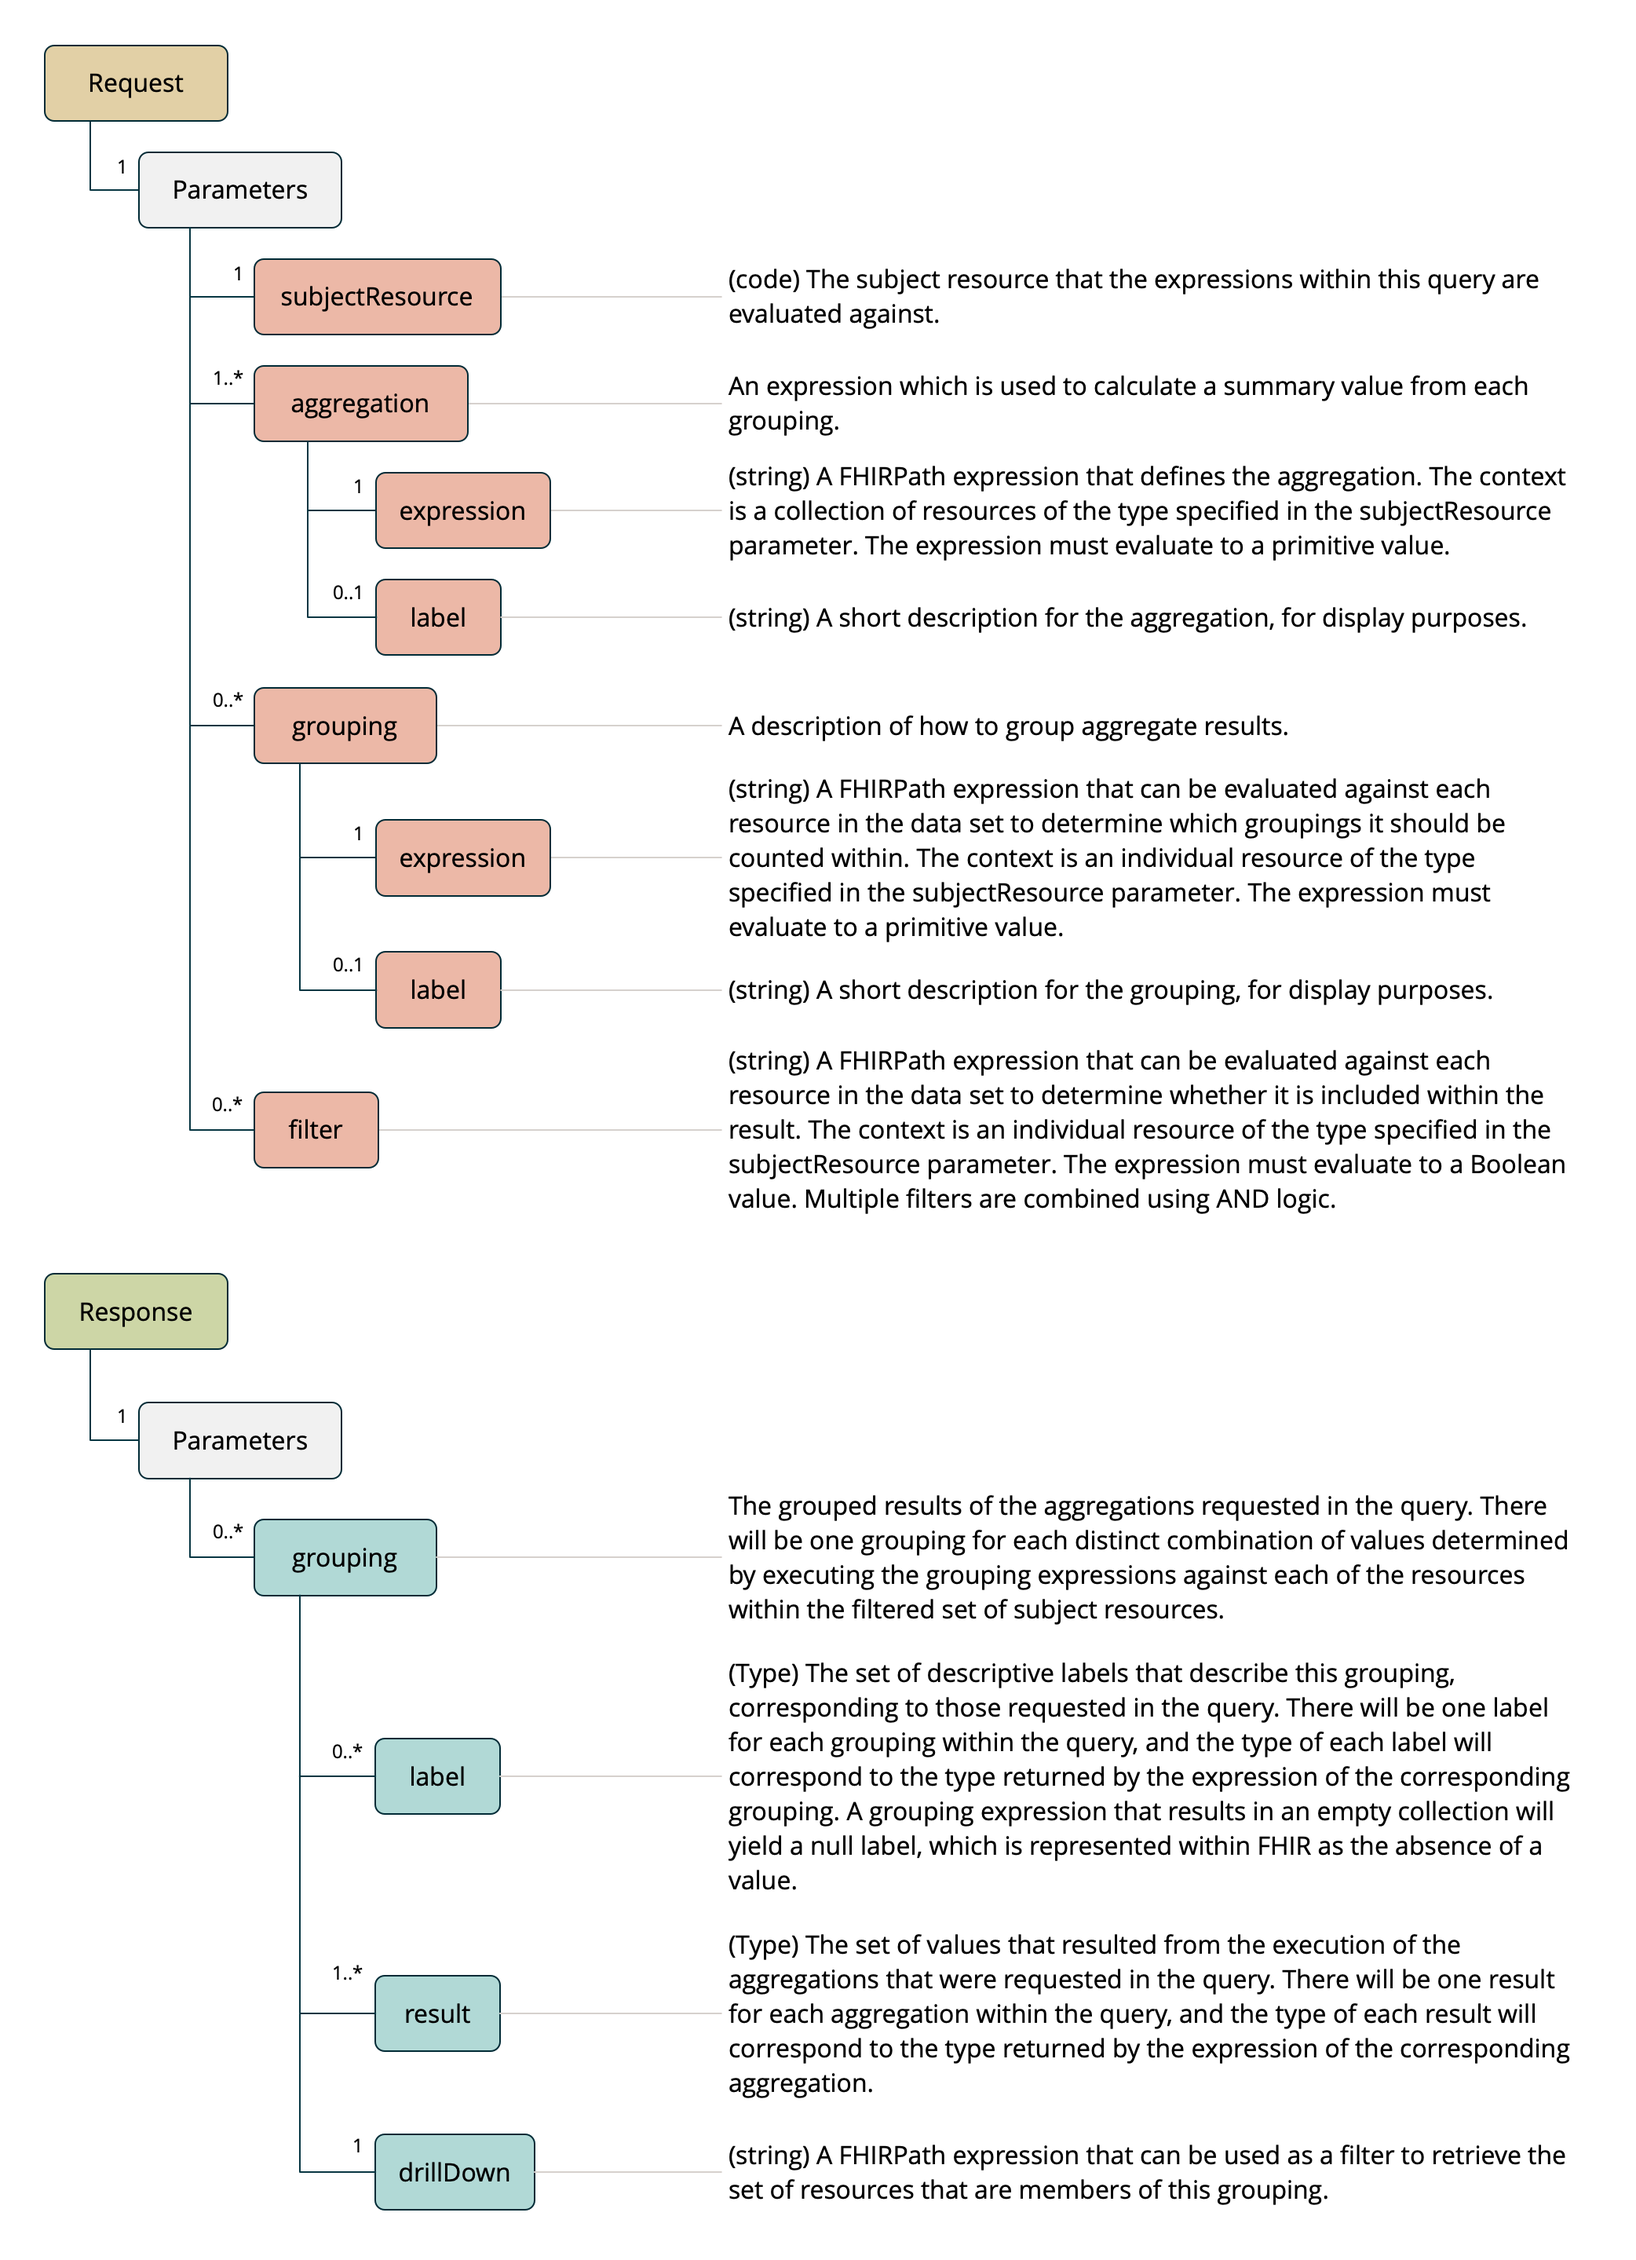
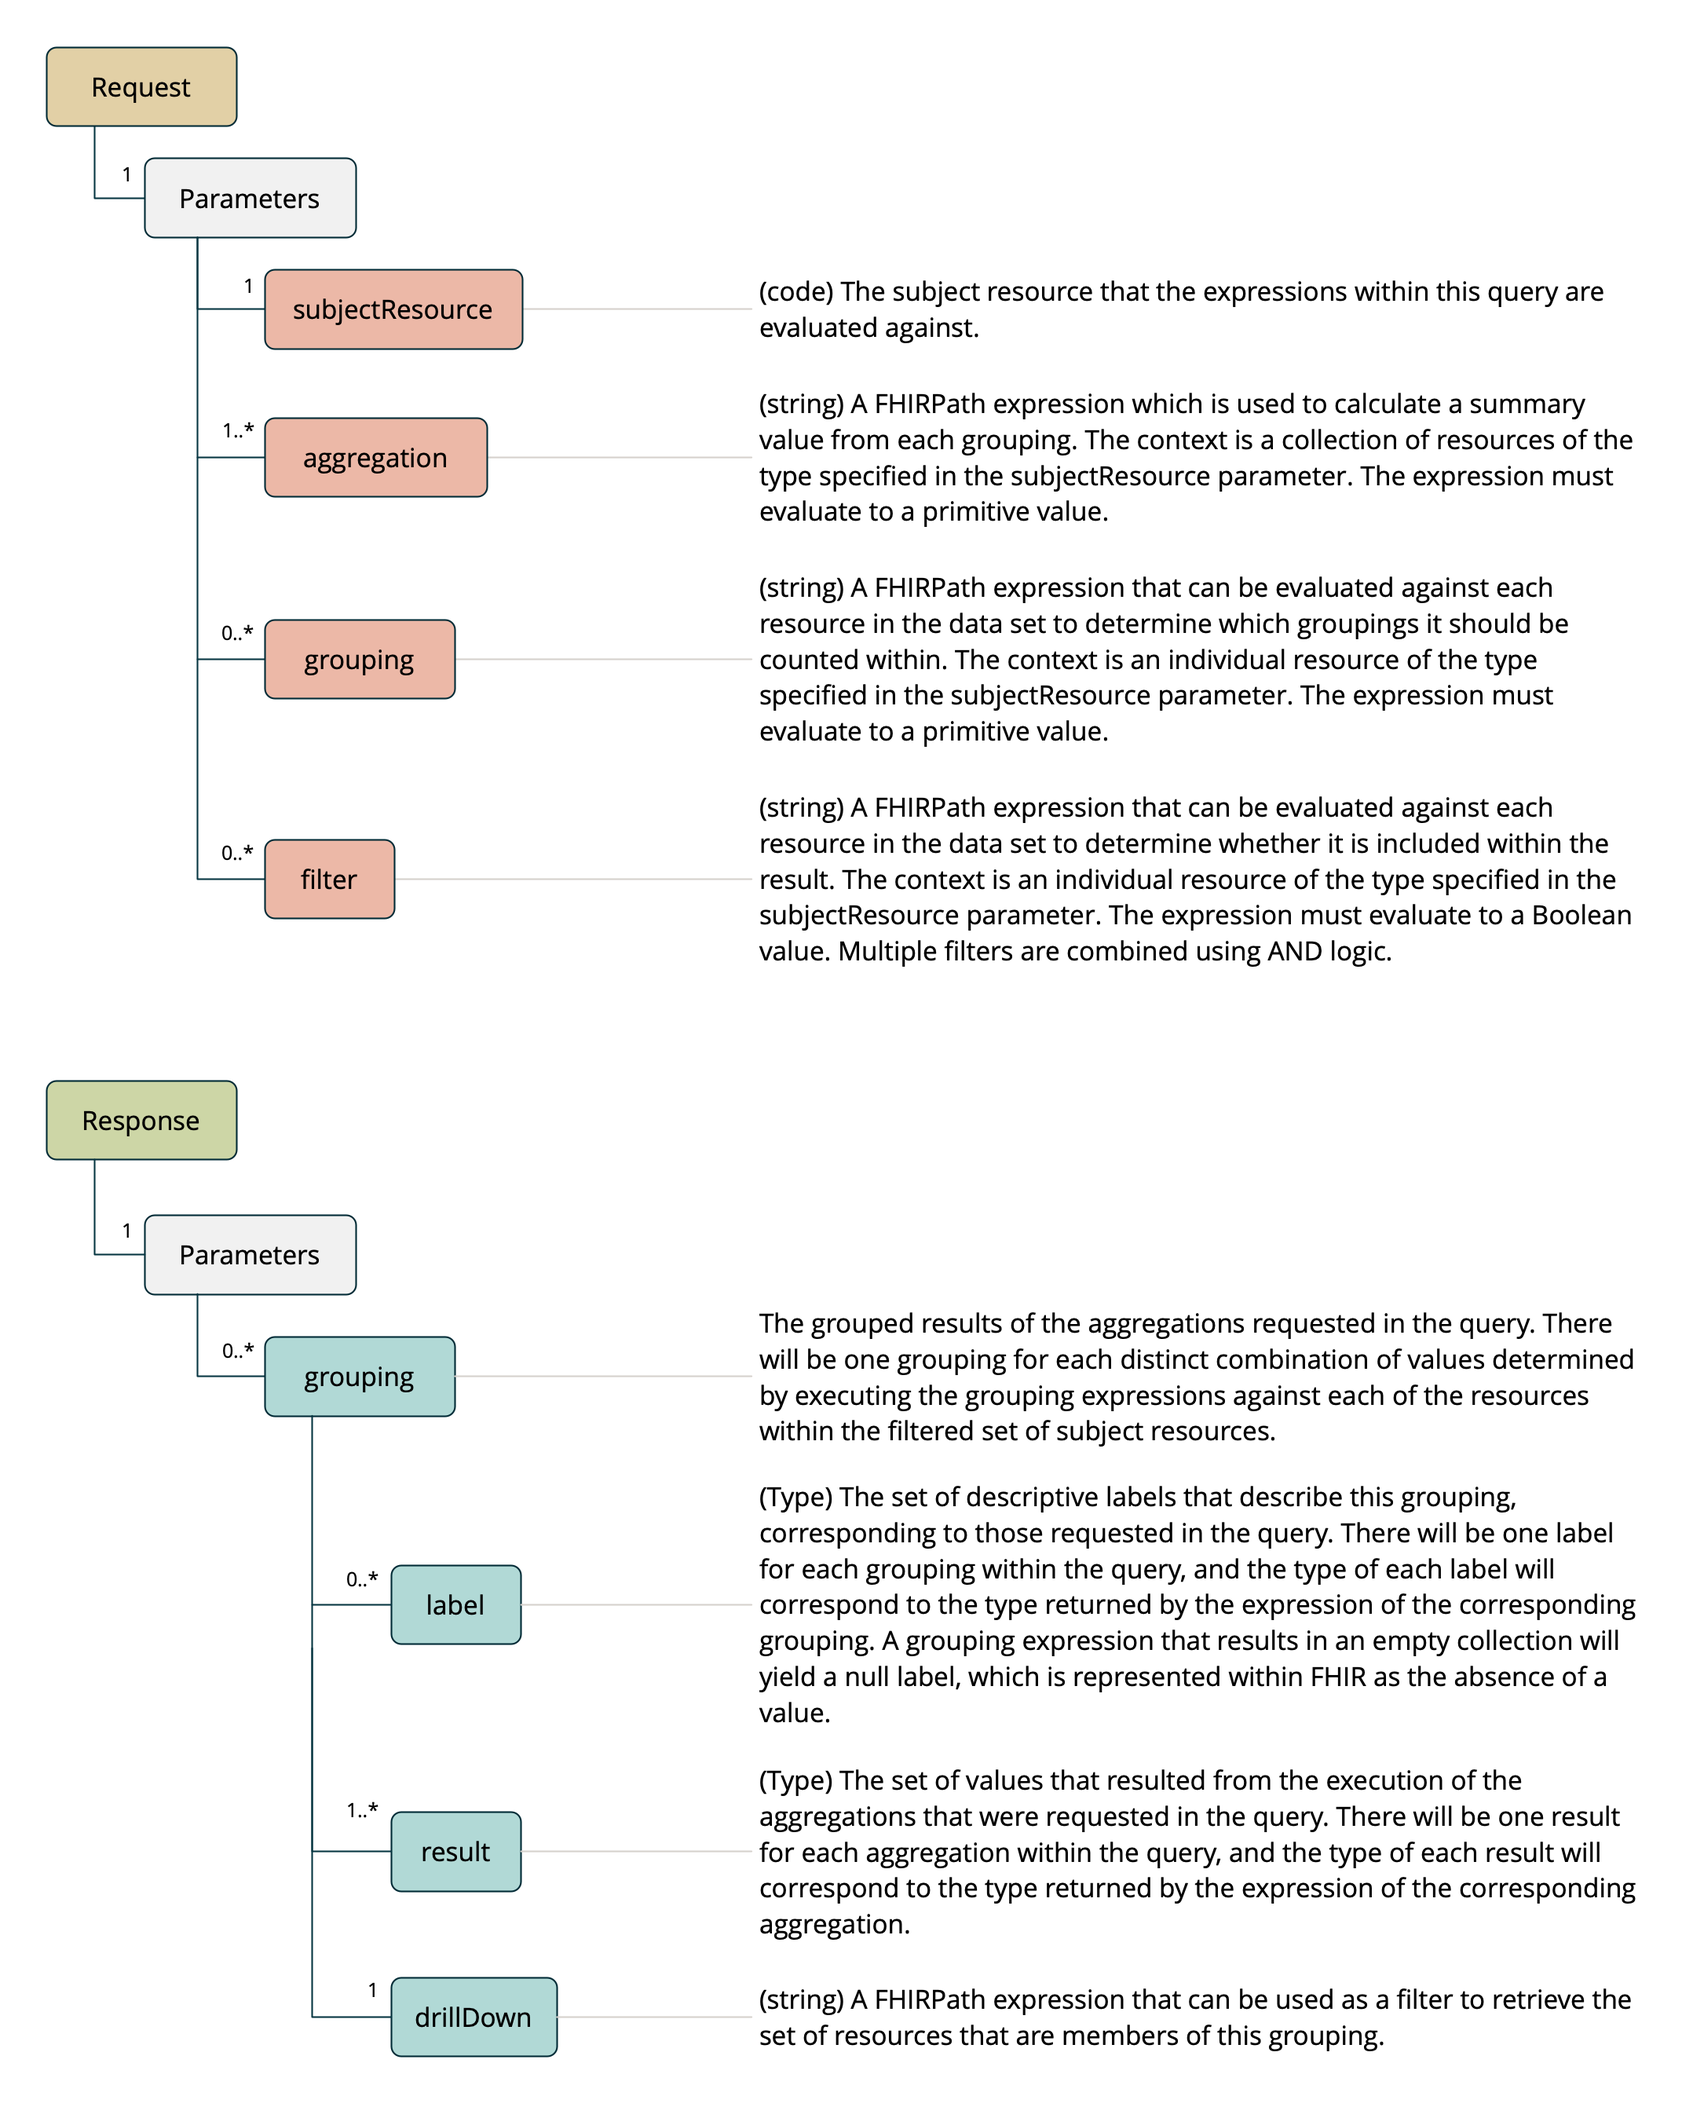
Update aggregate.md

diff --git a/site/docs/aggregate.md b/site/docs/aggregate.md
@@ -34,27 +34,20 @@ following parameters:
 - `subjectResource [1..1]` - (code) The subject resource that the expressions
   within this query are evaluated against. The code must be a member of
   [http://hl7.org/fhir/ValueSet/resource-types](https://hl7.org/fhir/ValueSet/resource-types).
-- `aggregation [1..*]` - An expression which is used to calculate a summary
-  value from each grouping.
-  - `expression [1..1]` - (string) A FHIRPath expression that defines the
-    aggregation. The context is a collection of resources of the type specified
-    in the subjectResource parameter. The expression must evaluate to a
-    primitive value.
-  - `label [0..1]` - (string) A short description for the aggregation, for
-    display purposes.
-- `grouping [0..*]` - A description of how to group aggregate results.
-  - `expression [1..1]` - (string) A FHIRPath expression that can be evaluated
-    against each resource in the data set to determine which groupings it should
-    be counted within. The context is an individual resource of the type
-    specified in the subjectResource parameter. The expression must evaluate to
-    a primitive value.
-  - `label [0..1]` - (string) A short description for the grouping, for display
-    purposes.
-- `filter [0..*]` - (string) A FHIRPath expression that can be evaluated against
-  each resource in the data set to determine whether it is included within the
-  result. The context is an individual resource of the type specified in the
-  subjectResource parameter. The expression must evaluate to a Boolean value.
-  Multiple filters are combined using AND logic.
+- `aggregation [1..*]` - (string) A FHIRPath expression which is used to 
+  calculate a summary value from each grouping. The context is a collection of 
+  resources of the type specified in the subjectResource parameter. 
+  The expression must evaluate to a primitive value.
+- `grouping [0..*]` - (string) A FHIRPath expression that can be evaluated 
+  against each resource in the data set to determine which groupings it should 
+  be counted within. The context is an individual resource of the type specified 
+  in the subjectResource parameter. The expression must evaluate to a primitive 
+  value.
+- `filter [0..*]` - (string) A FHIRPath expression that can be evaluated against 
+  each resource in the data set to determine whether it is included within the 
+  result. The context is an individual resource of the type specified in the 
+  subjectResource parameter. The expression must evaluate to a singular Boolean 
+  value. Multiple filters are combined using AND logic.
 
 ## Response
 
@@ -62,9 +55,9 @@ The response for the `$aggregate` operation is a
 [Parameters](https://hl7.org/fhir/R4/parameters.html) resource containing the
 following parameters:
 
-- `grouping [0..*]` - The grouped results of the aggregations requested in the
-  query. There will be one grouping for each distinct combination of values
-  determined by executing the grouping expressions against each of the resources
+- `grouping [0..*]` - The grouped results of the aggregations requested in the 
+  query. There will be one grouping for each distinct combination of values 
+  determined by executing the grouping expressions against each of the resources 
   within the filtered set of subject resources.
   - `label [0..*]` - ([Type](https://hl7.org/fhir/R4/datatypes.html#primitive))
     The set of descriptive labels that describe this grouping, corresponding to 
@@ -74,12 +67,14 @@ following parameters:
     expression that results in an empty collection will yield a null label, 
     which is represented within FHIR as the absence of a value.
   - `result [1..*]` - ([Type](https://hl7.org/fhir/R4/datatypes.html#primitive))
-    The set of values that resulted from the execution of the aggregations that
-    were requested in the query. There will be one result for each aggregation
-    within the query, and the type of each result will correspond to the type
+    The set of values that resulted from the execution of the aggregations that 
+    were requested in the query. There will be one result for each aggregation 
+    within the query, and the type of each result will correspond to the type 
     returned by the expression of the corresponding aggregation.
-  - `drillDown [1..1]` - (string) A FHIRPath expression that can be used as a
-    filter to retrieve the set of resources that are members of this grouping.
+  - `drillDown [1..1]` - (string) A FHIRPath expression that can be used as a 
+    filter to retrieve the set of resources that are members of this grouping. 
+    This will be omitted if there were no groupings or filters passed within the 
+    query.
 
 ## Examples
 
